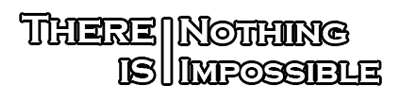
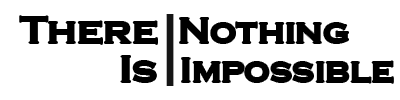
Add files via upload

diff --git a/styles/style.css b/styles/style.css
@@ -4,34 +4,33 @@ header {
 	background-size: cover;
 	background-attachment: fixed;
 }
+header .ro {
+	width: 100%;
+	background: #E5E5E5;
+}
 header .limba {
 	font-size: 20px;
-	float: left;
+	float: right;
 	font-weight: bold;
-	color: white;
+	color: red;
 	padding: 5px;
-	margin: 0;
-	margin-bottom: 50px;
+	margin-top: 59px;
 	text-decoration: none;
 	transition: 0.5s;
 	font-family: 'Cuprum', sans-serif;
 }
 header .limba:hover {
+	color: red;
 	transform: rotate(360deg);
-	color: white;
 	transition: 0.5s;
 	text-decoration: none;
 }
-header .container .logo  {
-	width: 300px;
-	margin-top: 40px;
-	margin-bottom: 50px;
-}
-header .container .name {
-	margin-top: 75px;
-	box-shadow: 0px 0px 20px white;
-	border-radius: 25px;
-	margin-bottom: 50px;
+header .bestime {
+	text-align: center;
+	font-size: 30px;
+	font-weight: bold;
+	font-family: 'Shadows Into Light', cursive;
+	margin-top: 7px;
 }
 .post-content {
 	box-shadow: 0px 0px 15px;
@@ -132,41 +131,27 @@ footer .copyright-content a {
 	text-decoration: underline;
 }
 /*---------------------------------Адаптация-------------------------------------*/
-
-@media screen and (max-width: 991px) {
-	header .container .logo {
-		margin-top: 10px;
-		margin-bottom: 20px;
-	}
-	header .container .name {
-	    margin-top: 0;
-    }
-}
 @media screen and (max-width: 500px) {
-	header .container .logo {
-		width: 250px;
-	}
 	header .container .name {
-	    width: 350px;
+	    width: 320px;
+    }
+    header .limba {
+    	margin-top: 41px;
     }
 }
 @media screen and (max-width: 425px) {
-	header .container .logo {
-		width: 230px;
-		padding-bottom: 20px;
-	}
 	header .container .name {
-	    width: 330px;
-	    border-radius: 15px;
-	    margin-top: 0;
+	    width: 300px;
+    }
+    header .limba {
+    	margin-top: 37px;
     }
 }
 @media screen and (max-width: 375px) {
-	header .container .logo {
-		width: 185px;
-		padding-bottom: 20px;
-	}
 	header .container .name {
-	    width: 285px;
+	    width: 245px;
+    }
+    header .limba {
+    	margin-top: 25px;
     }
 }

diff --git a/index.html b/index.html
@@ -11,14 +11,18 @@
     <link rel="stylesheet" type="text/css" href="styles/style.css">
     <link rel="stylesheet" href="https://maxcdn.bootstrapcdn.com/bootstrap/3.3.7/css/bootstrap.min.css" integrity="sha384-BVYiiSIFeK1dGmJRAkycuHAHRg32OmUcww7on3RYdg4Va+PmSTsz/K68vbdEjh4u" crossorigin="anonymous">
     <link rel="stylesheet" href="https://maxcdn.bootstrapcdn.com/bootstrap/3.3.7/css/bootstrap-theme.min.css" integrity="sha384-rHyoN1iRsVXV4nD0JutlnGaslCJuC7uwjduW9SVrLvRYooPp2bWYgmgJQIXwl/Sp" crossorigin="anonymous">
-    <link href="https://fonts.googleapis.com/css?family=Cuprum|Shrikhand" rel="stylesheet">
+    <link href="https://fonts.googleapis.com/css?family=Cuprum|Shadows+Into+Light" rel="stylesheet">
 </head>
 <body style="background: #E5E5E5;">
 <header>
+	<div class="ro">
+		<div class="container text-center">
+    	  <a href="#" class="limba">RO</a>
+    	  <a href="#"><img src="img/name.png" class="name"></a>
+        </div>
+    </div>
     <div class="container text-center">
-    	<a href="#" class="limba">RO</a>
-        <img src="img/logo.png" class="logo">
-        <img src="img/name.png" class="name">
+        
     </div>
 </header>
 
